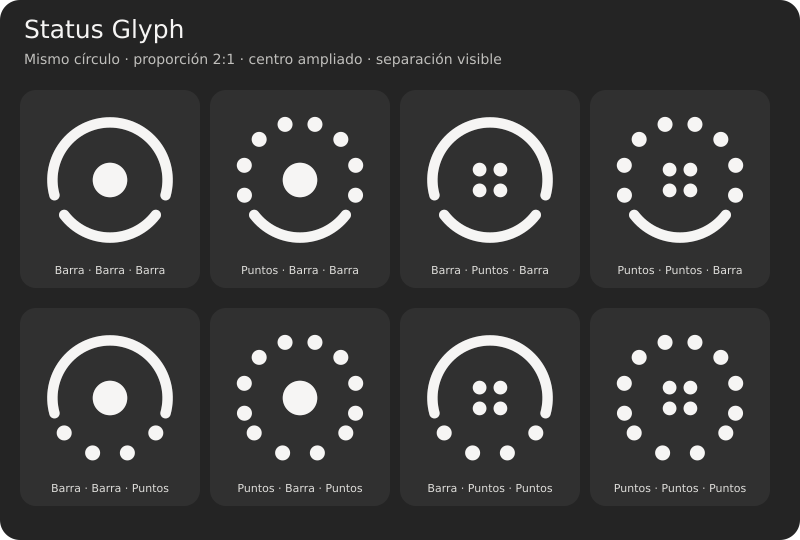
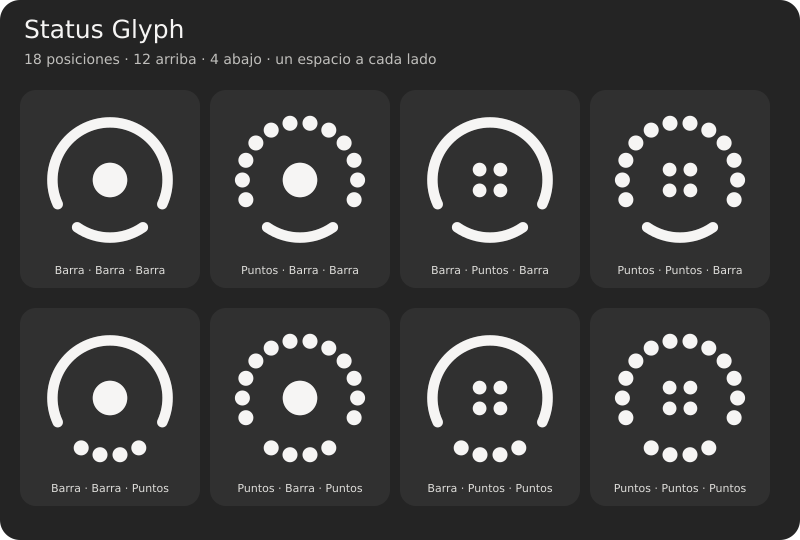
fix: distribute glyph on 18 equal slots with 12 upper and 4 lower dots

diff --git a/tests/geometry.test.js b/tests/geometry.test.js
@@ -1,34 +1,49 @@
 import {test} from 'node:test';
 import assert from 'node:assert/strict';
-import {CHANNELS, GEOMETRY, STROKE_WIDTH, dotPositions} from '../widget/Geometry.js';
+import {CHANNELS, GEOMETRY, STROKE_WIDTH, TOTAL_SLOTS, SLOT_ANGLE, dotPositions} from '../widget/Geometry.js';
 
 const close = (actual, expected) => assert.ok(Math.abs(actual - expected) < 1e-12,
     `${actual} differs from ${expected}`);
 const distance = (a, b) => Math.hypot(a.x - b.x, a.y - b.y);
 
-test('upper and lower arcs share one circle with 2/3 and 1/3 of visible sweep', () => {
+test('one circle has 18 equal slots: 12 upper, 4 lower and one blank on each side', () => {
     const {primary: upper, secondary: lower} = GEOMETRY;
     assert.equal(upper.x, lower.x);
     assert.equal(upper.y, lower.y);
     assert.equal(upper.radius, lower.radius);
-    const topSweep = upper.end - upper.start;
-    const bottomSweep = lower.end - lower.start;
-    close(topSweep / (topSweep + bottomSweep), 2 / 3);
-    close(bottomSweep / (topSweep + bottomSweep), 1 / 3);
+    assert.equal(TOTAL_SLOTS, 18);
+    close(SLOT_ANGLE, Math.PI / 9);
+    const topSweep = upper.sectorEnd - upper.sectorStart;
+    const bottomSweep = lower.sectorEnd - lower.sectorStart;
+    close(topSweep / (2 * Math.PI), 2 / 3);
+    close(bottomSweep / SLOT_ANGLE, 4);
+    close(upper.sectorStart - lower.sectorEnd, SLOT_ANGLE);
+    close(lower.sectorStart + 2 * Math.PI - upper.sectorEnd, SLOT_ANGLE);
+    close(topSweep + bottomSweep + 2 * SLOT_ANGLE, 2 * Math.PI);
     close((lower.start + lower.end) / 2, Math.PI / 2);
     close((upper.start + upper.end) / 2, 3 * Math.PI / 2);
 });
 
-test('two balanced gaps remain visible with round caps and enlarged dots at 48px', () => {
+test('two blank slots remain visibly clear for every arc/dot combination at 48px', () => {
     const {primary: upper, secondary: lower} = GEOMETRY;
     close(upper.start - lower.end, lower.start + 2 * Math.PI - upper.end);
-    const topDots = dotPositions(upper);
-    const lowerDots = dotPositions(lower);
-    for (const [a, b] of [[topDots[0], lowerDots.at(-1)], [topDots.at(-1), lowerDots[0]]]) {
-        const gap = distance(a, b);
-        for (const radiusA of [STROKE_WIDTH / 2, a.radius]) {
-            for (const radiusB of [STROKE_WIDTH / 2, b.radius])
-                assert.ok((gap - radiusA - radiusB) * 48 >= 2);
+    const endpoints = (geometry, style) => {
+        if (style === 'dots') {
+            const points = dotPositions(geometry);
+            return [points[0], points.at(-1)];
+        }
+        return [geometry.start, geometry.end].map(angle => ({
+            x: geometry.x + Math.cos(angle) * geometry.radius,
+            y: geometry.y + Math.sin(angle) * geometry.radius,
+            radius: STROKE_WIDTH / 2,
+        }));
+    };
+    for (const topStyle of ['bar', 'dots']) {
+        for (const lowerStyle of ['bar', 'dots']) {
+            const [topFirst, topLast] = endpoints(upper, topStyle);
+            const [lowFirst, lowLast] = endpoints(lower, lowerStyle);
+            for (const [a, b] of [[topFirst, lowLast], [topLast, lowFirst]])
+                assert.ok((distance(a, b) - a.radius - b.radius) * 48 >= 2);
         }
     }
 });
@@ -36,13 +51,18 @@ test('two balanced gaps remain visible with round caps and enlarged dots at 48px
 test('lower channel has four distinct enlarged points on the bottom of the circle', () => {
     const points = dotPositions(GEOMETRY.secondary);
     assert.equal(points.length, 4);
-    assert.equal(dotPositions(GEOMETRY.primary).length, 8);
+    const upper = dotPositions(GEOMETRY.primary);
+    assert.equal(upper.length, 12);
     for (const point of points) {
         assert.ok(point.y > GEOMETRY.secondary.y);
         assert.ok(point.radius > 0.029);
     }
-    for (let i = 1; i < points.length; i++)
-        assert.ok(distance(points[i - 1], points[i]) > points[i - 1].radius + points[i].radius);
+    for (const group of [upper, points]) {
+        for (let i = 1; i < group.length; i++) {
+            close(distance(group[i - 1], group[i]), 2 * GEOMETRY.primary.radius * Math.sin(SLOT_ANGLE / 2));
+            assert.ok(distance(group[i - 1], group[i]) > group[i - 1].radius + group[i].radius);
+        }
+    }
 });
 
 test('center circle and 2x2 points share a centered footprint of 30% of ring diameter', () => {

diff --git a/widget/Geometry.js b/widget/Geometry.js
@@ -2,30 +2,36 @@ export const CHANNELS = ['primary', 'center', 'secondary'];
 
 export const STROKE_WIDTH = 0.065;
 export const RING = {x: 0.5, y: 0.5, radius: 0.36};
-// Two visible gaps. Divide the remaining circumference in an exact 2:1 ratio.
-// Angles follow Cairo: zero points right, and PI/2 points down.
-export const ARC_GAP = 22 * Math.PI / 180;
-const visibleSweep = 2 * Math.PI - 2 * ARC_GAP;
-const lowerSweep = visibleSweep / 3;
-const lowerStart = Math.PI / 2 - lowerSweep / 2;
-const lowerEnd = Math.PI / 2 + lowerSweep / 2;
+// Eighteen equally spaced positions: 12 upper, 4 lower, 1 empty on each side.
+// The two empty positions belong to the remaining third of the circumference.
+export const TOTAL_SLOTS = 18;
+export const SLOT_ANGLE = 2 * Math.PI / TOTAL_SLOTS;
+const lowerStart = Math.PI / 2 - 2 * SLOT_ANGLE;
+const lowerEnd = Math.PI / 2 + 2 * SLOT_ANGLE;
+const upperStart = lowerEnd + SLOT_ANGLE;
+const upperEnd = upperStart + 12 * SLOT_ANGLE;
+// Inset centerlines so rounded caps stay inside their allocated sectors.
+const capInset = Math.asin(STROKE_WIDTH / (2 * RING.radius));
 
 export const GEOMETRY = {
-    primary: {...RING, start: lowerEnd + ARC_GAP, end: lowerEnd + ARC_GAP + 2 * lowerSweep,
-        count: 8, dotRadius: 0.047},
+    primary: {...RING, sectorStart: upperStart, sectorEnd: upperEnd,
+        start: upperStart + capInset, end: upperEnd - capInset,
+        dotStart: upperStart + SLOT_ANGLE / 2, dotStep: SLOT_ANGLE, count: 12, dotRadius: 0.047},
     center: {x: RING.x, y: RING.y, radius: RING.radius * 0.3, count: 4,
         dotRadius: 0.043, dotOffset: RING.radius * 0.3 - 0.043},
-    secondary: {...RING, start: lowerStart, end: lowerEnd, count: 4, dotRadius: 0.047},
+    secondary: {...RING, sectorStart: lowerStart, sectorEnd: lowerEnd,
+        start: lowerStart + capInset, end: lowerEnd - capInset,
+        dotStart: lowerStart + SLOT_ANGLE / 2, dotStep: SLOT_ANGLE, count: 4, dotRadius: 0.047},
 };
 
 export function dotPositions(geometry) {
-    const {x, y, radius, start, end, count, dotRadius, dotOffset} = geometry;
+    const {x, y, radius, start, count, dotRadius, dotOffset, dotStart, dotStep} = geometry;
     return Array.from({length: count}, (_, index) => {
         if (start === undefined) {
             return {x: x + (index % 2 ? 1 : -1) * dotOffset,
                 y: y + (index < 2 ? -1 : 1) * dotOffset, radius: dotRadius};
         }
-        const angle = start + (end - start) * index / (count - 1);
+        const angle = dotStart + dotStep * index;
         return {x: x + Math.cos(angle) * radius, y: y + Math.sin(angle) * radius, radius: dotRadius};
     });
 }

diff --git a/docs/ARCHITECTURE.md b/docs/ARCHITECTURE.md
@@ -4,9 +4,9 @@
 
 `widget/StatusGlyph.js` conecta GSettings y los proveedores. `Geometry.js` centraliza coordenadas normalizadas. `Renderers.js` dibuja directamente con Cairo; no usa imágenes rasterizadas ni procesos externos.
 
-Los dos arcos comparten centro (0.5, 0.5) y radio 0.36. Dos separaciones de 22° distinguen los canales y dejan al menos 2 px entre los puntos extremos al tamaño mínimo de 48 px. El recorrido visible restante se reparte exactamente 2:1; al excluir los espacios, la parte principal conserva 2/3 y la inferior 1/3. El trazo mide 0.065 del tamaño del widget, frente al anterior 0.055.
+Los dos arcos comparten centro (0.5, 0.5) y radio 0.36. El círculo se divide en 18 posiciones de 20°: 12 superiores, 4 inferiores y una vacía en cada lateral. El sector principal ocupa 240°; el inferior, 80°; los 40° restantes son espacios. Los centros de los puntos se ubican en el centro de cada posición, con paso angular uniforme. Los extremos de los arcos se acortan lo suficiente para mantener sus tapas redondeadas dentro de los sectores asignados. Las cuatro combinaciones de barras/puntos conservan al menos 2 px de separación entre canales al tamaño mínimo de 48 px. El trazo mide 0.065 del tamaño del widget.
 
-El círculo central tiene radio 0.108: su diámetro equivale al 30% del diámetro de la trayectoria exterior. El grupo central 2×2 ocupa el mismo ancho y alto. Los puntos exteriores tienen radio 0.047 y se distribuyen en ocho arriba y cuatro abajo; los centrales tienen radio 0.043. `dotPositions()` proporciona la misma geometría al renderer, pruebas y previsualización.
+El círculo central tiene radio 0.108: su diámetro equivale al 30% del diámetro de la trayectoria exterior. El grupo central 2×2 ocupa el mismo ancho y alto. Los puntos exteriores tienen radio 0.047 y se distribuyen en doce arriba y cuatro abajo; los centrales tienen radio 0.043. `dotPositions()` proporciona la misma geometría al renderer, pruebas y previsualización.
 
 `Registry` comparte proveedores con conteo de referencias. Solo existen proveedores elegidos por los tres canales. Cada proveedor emite objetos `{value, label, available, state}`. Los cambios idénticos no provocan repintado.
 

diff --git a/README.md b/README.md
@@ -1,6 +1,6 @@
 # Status Glyph
 
-Un único widget de escritorio para GNOME Shell con tres canales de información independientes. Dos arcos sobre un mismo círculo: la parte superior ocupa 2/3 del recorrido visible y la inferior 1/3, separados por dos espacios. El centro tiene un diámetro del 30% del círculo; cada parte puede cambiar a puntos, con ocho puntos arriba, cuatro en el centro (2×2) y cuatro abajo.
+Un único widget de escritorio para GNOME Shell con tres canales de información independientes. El círculo se divide en 18 posiciones iguales: 12 arriba, 4 abajo y 2 vacías, una en cada lateral. Los puntos conservan la misma separación angular de 20°; los arcos ocupan los sectores correspondientes, respetando los espacios laterales. El centro tiene un diámetro del 30% del círculo y puede mostrarse como círculo o cuatro puntos en matriz 2×2.
 
 ![Geometría de las ocho combinaciones a nivel completo](docs/GEOMETRY_PREVIEW.svg)
 

diff --git a/CHANGELOG.md b/CHANGELOG.md
@@ -2,10 +2,11 @@
 
 ## Unreleased — 2026-10-11
 
-- Arcos concéntricos con un mismo centro y radio, proporción visible 2/3–1/3 y dos separaciones de 22°.
+- Círculo dividido en 18 posiciones equidistantes: 12 arriba, 4 abajo y dos vacías, una por lateral.
+- Arcos sobre ese mismo círculo, con tapas redondeadas dentro de sus sectores para respetar los espacios laterales.
 - Barras un 18% más gruesas y puntos exteriores más grandes.
 - Centro ampliado al 30% del diámetro de la trayectoria exterior; grupo 2×2 con el mismo tamaño exterior.
-- Ocho puntos superiores y cuatro inferiores, manteniendo espacio visible en todas las combinaciones.
+- Doce puntos superiores y cuatro inferiores, manteniendo espacio visible en todas las combinaciones.
 - Pruebas de proporciones, separación, límites y tamaño central.
 
 ## 0.1.0 — 2026-10-09

diff --git a/docs/TESTING.md b/docs/TESTING.md
@@ -2,7 +2,7 @@
 
 ## Ejecutado en el entorno de desarrollo
 
-- 11 pruebas unitarias: rangos, CPU y guest counters, MemAvailable, discretización, colores, ciclo de vida del proveedor y cinco controles geométricos de proporción 2:1, separaciones, puntos inferiores, tamaño central y límites de dibujo.
+- 11 pruebas unitarias: rangos, CPU y guest counters, MemAvailable, discretización, colores, ciclo de vida del proveedor y cinco controles geométricos de 18 posiciones, separaciones laterales, 12/4 puntos equidistantes, tamaño central y límites de dibujo.
 - Sintaxis de módulos JavaScript y resolución de imports locales.
 - Lectura de metadata y estructura XML de 20 claves GSettings.
 - Validación sintáctica del instalador.
